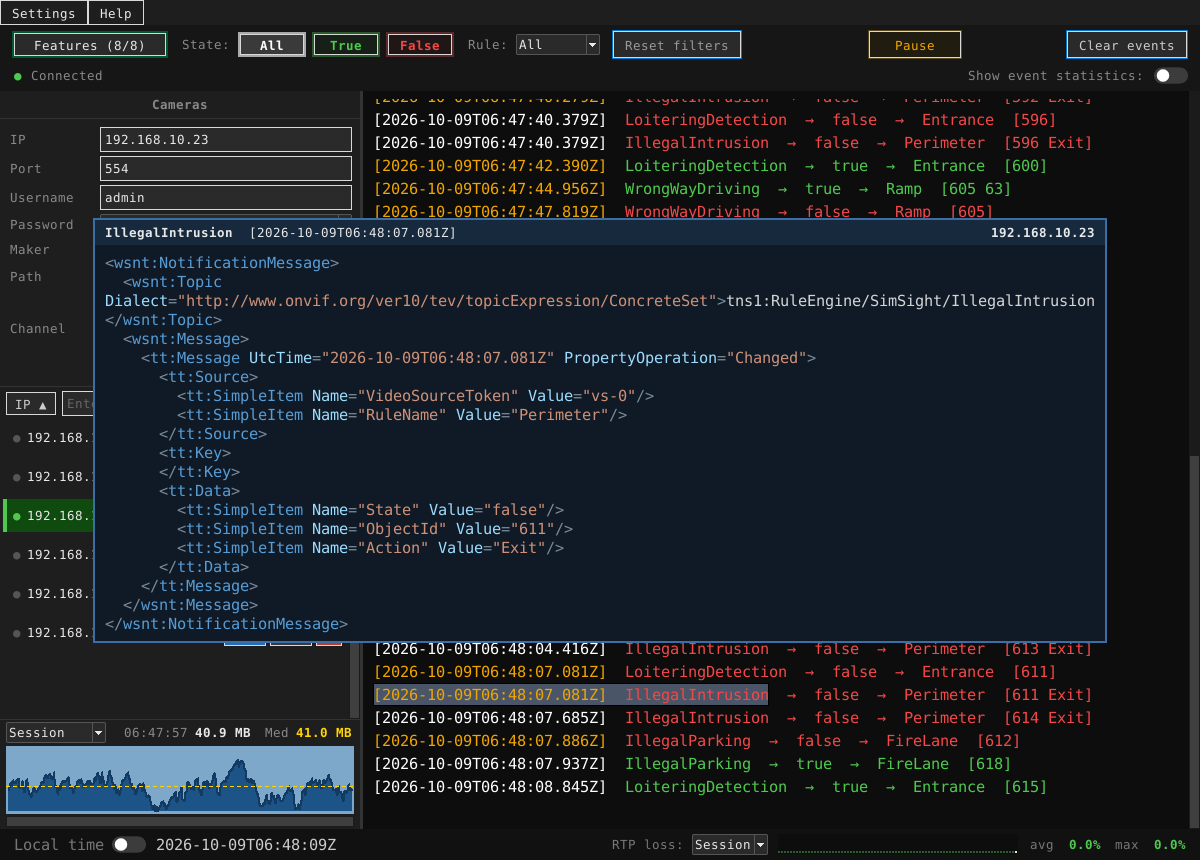
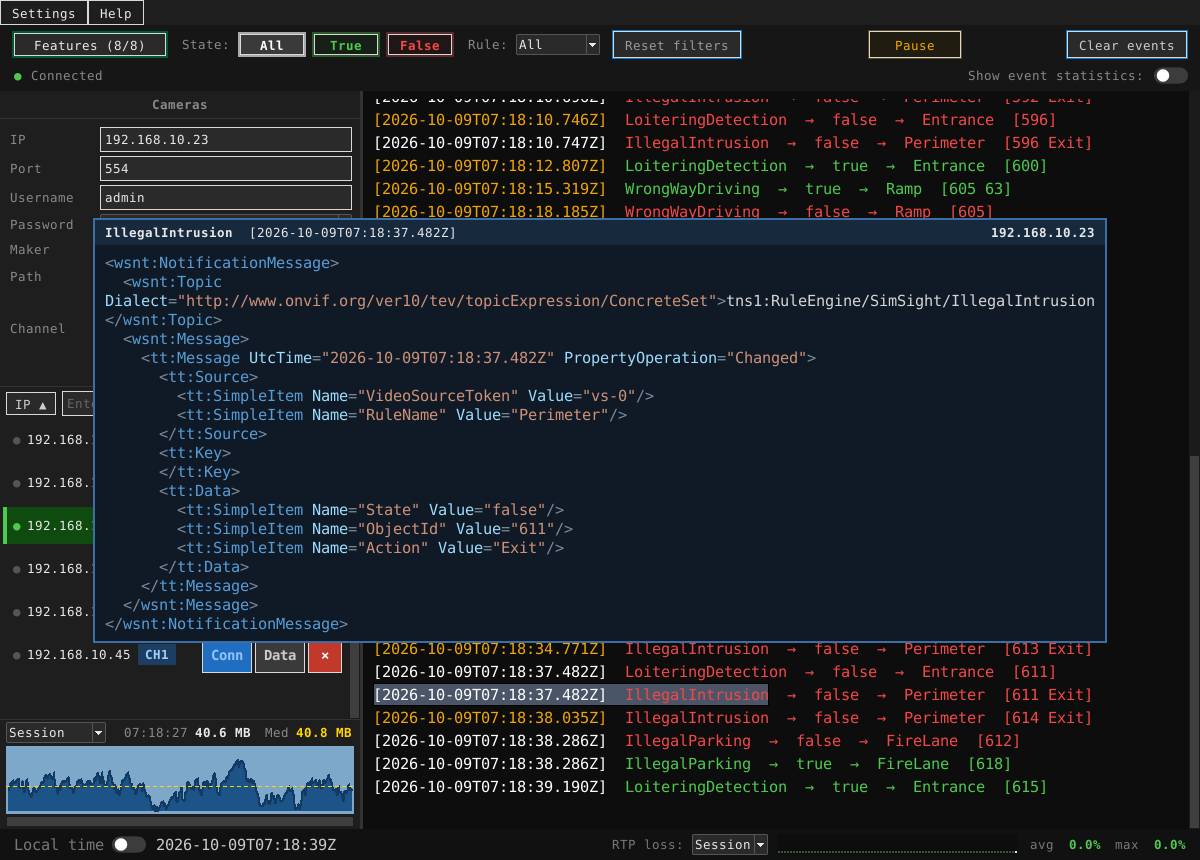
Screenshots: bigger camera-list buttons

diff --git a/index.html b/index.html
@@ -340,7 +340,7 @@ const DEMO_VIDEO = "media/demo.mp4";
 const DEMO_POSTER = "media/demo.jpg";
 // The screenshots' revision: tools/demo_screenshots.py sets it when it saves new
 // ones, so browsers and the Pages CDN fetch them again instead of a cached copy.
-const MEDIA_REV = "202610090648";
+const MEDIA_REV = "202610090719";
 const SCREENSHOTS = [
   ["media/screenshot-1.png", "Main window after 30 hours: cameras, live event log, memory and RTP loss"],
   ["media/screenshot-2.png", "Choose the camera's maker: the path of its metadata stream is filled in"],
